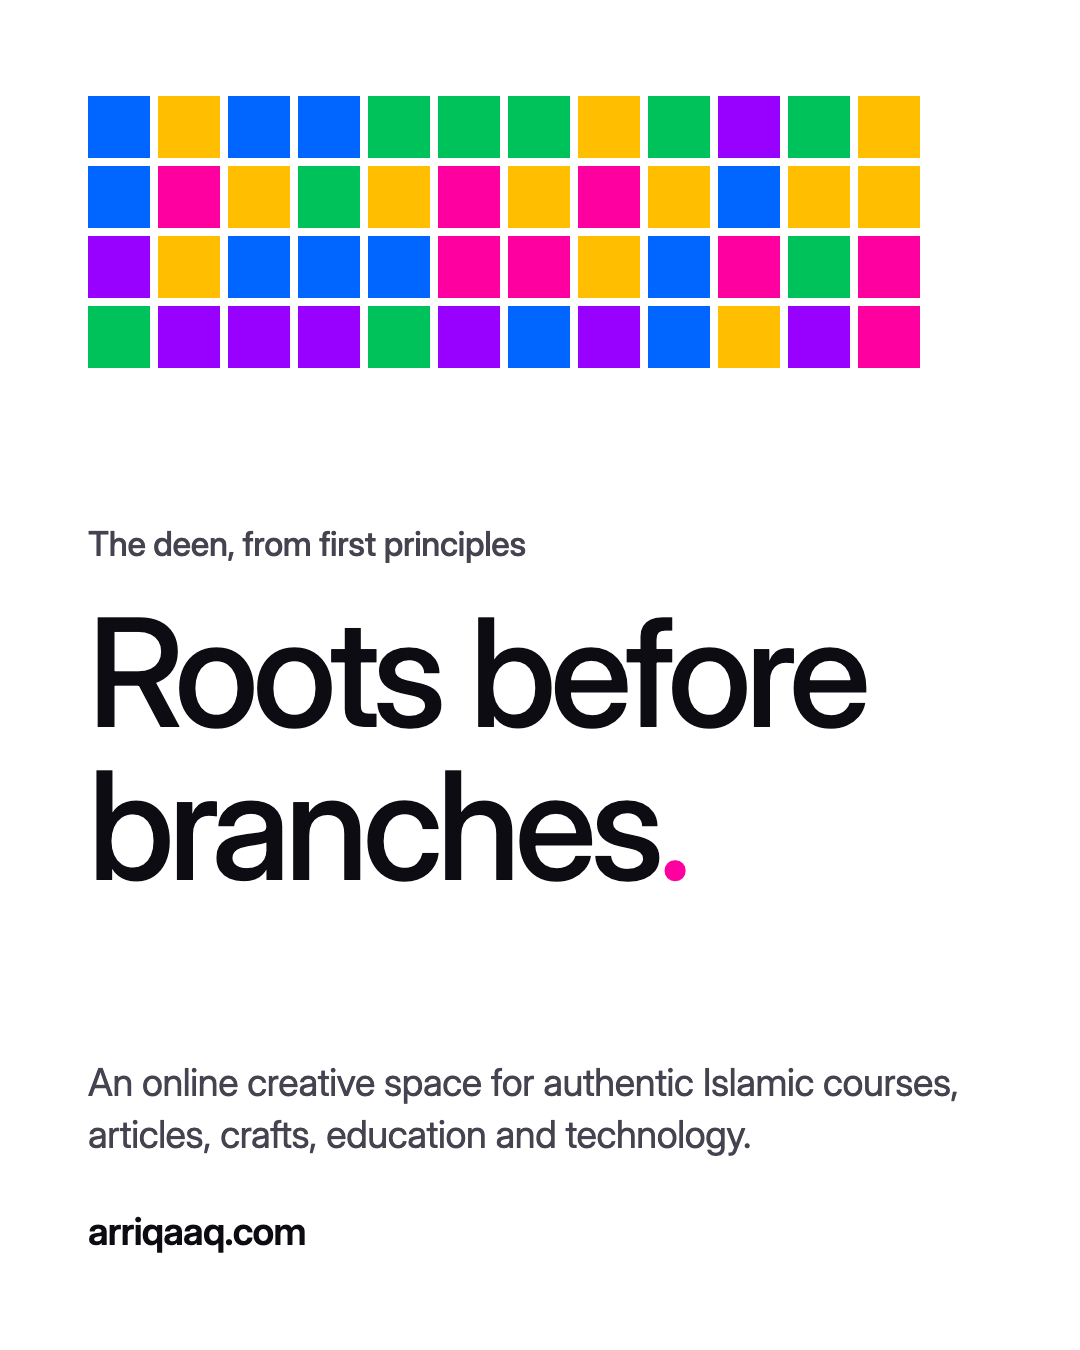
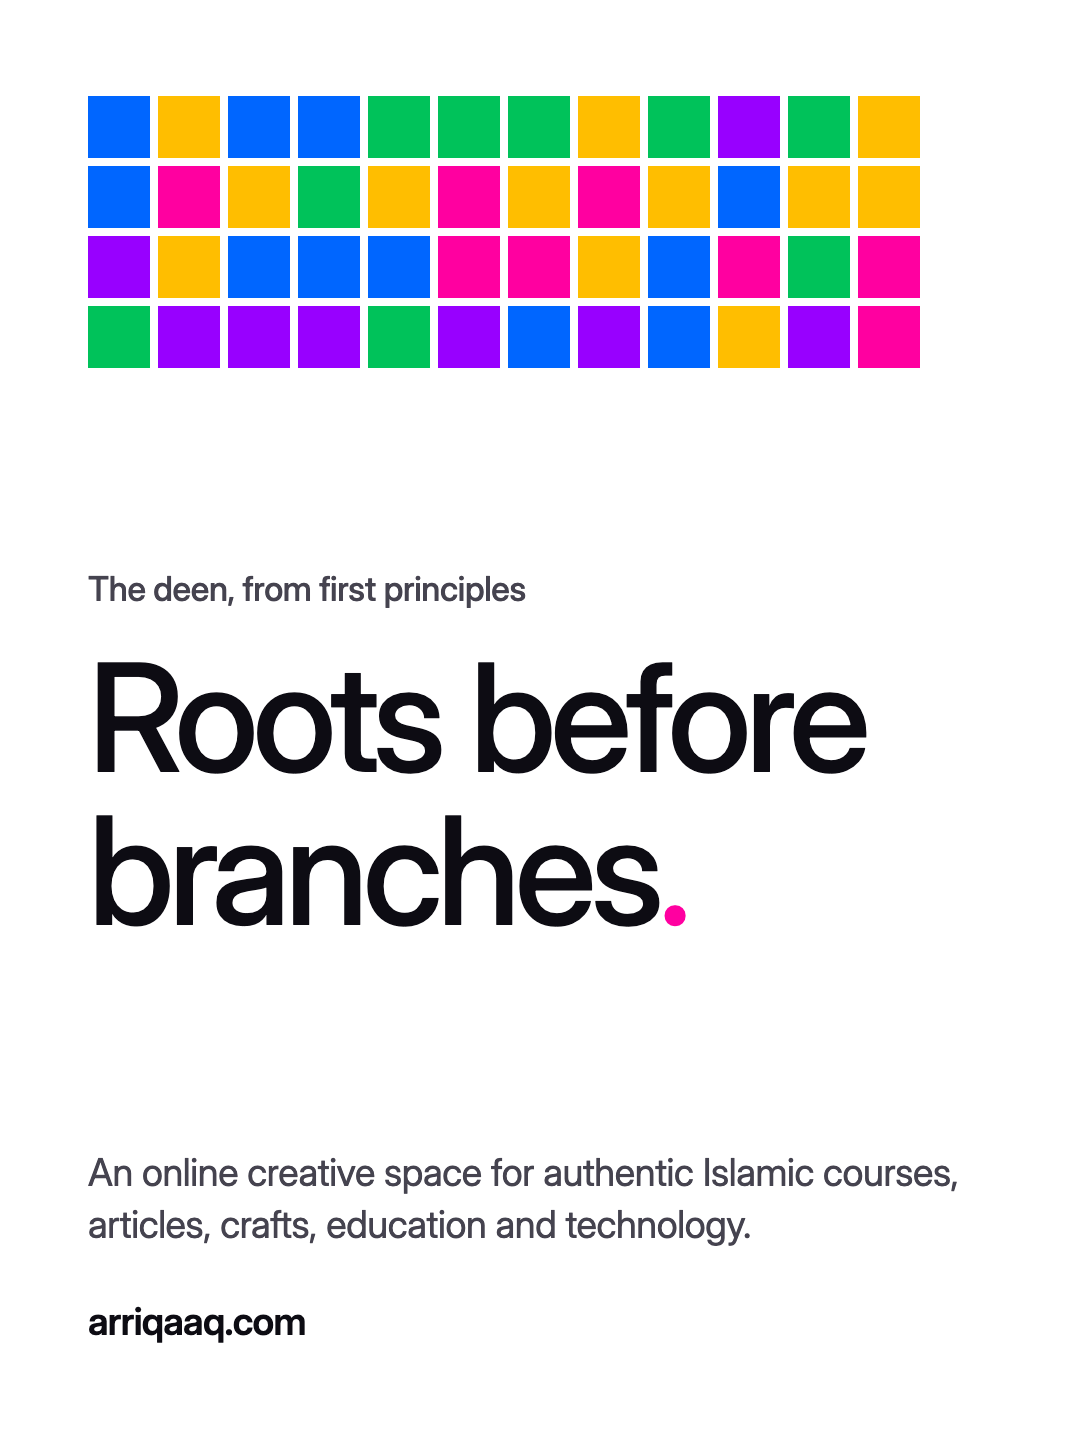
Instagram cards: 1080x1440 (3:4) to match the profile grid

diff --git a/instagram/README.md b/instagram/README.md
@@ -2,7 +2,7 @@
 
 Keep every Instagram post image here (not under `static/`, so they are never deployed with the site).
 
-- Size: 1080 x 1350 px (4:5 portrait feed post).
+- Size: 1080 x 1440 px (3:4 portrait, matches the profile grid so nothing is cropped).
 - `npm run instagram` regenerates the cards defined in `scripts/generate-instagram.mts`.
   Add a new card by adding an entry to `cards` there. Follow DESIGN.md: palette at full strength, Inter, headings at most 5-6 words.
 - Hand-made images can simply be dropped in this folder.
